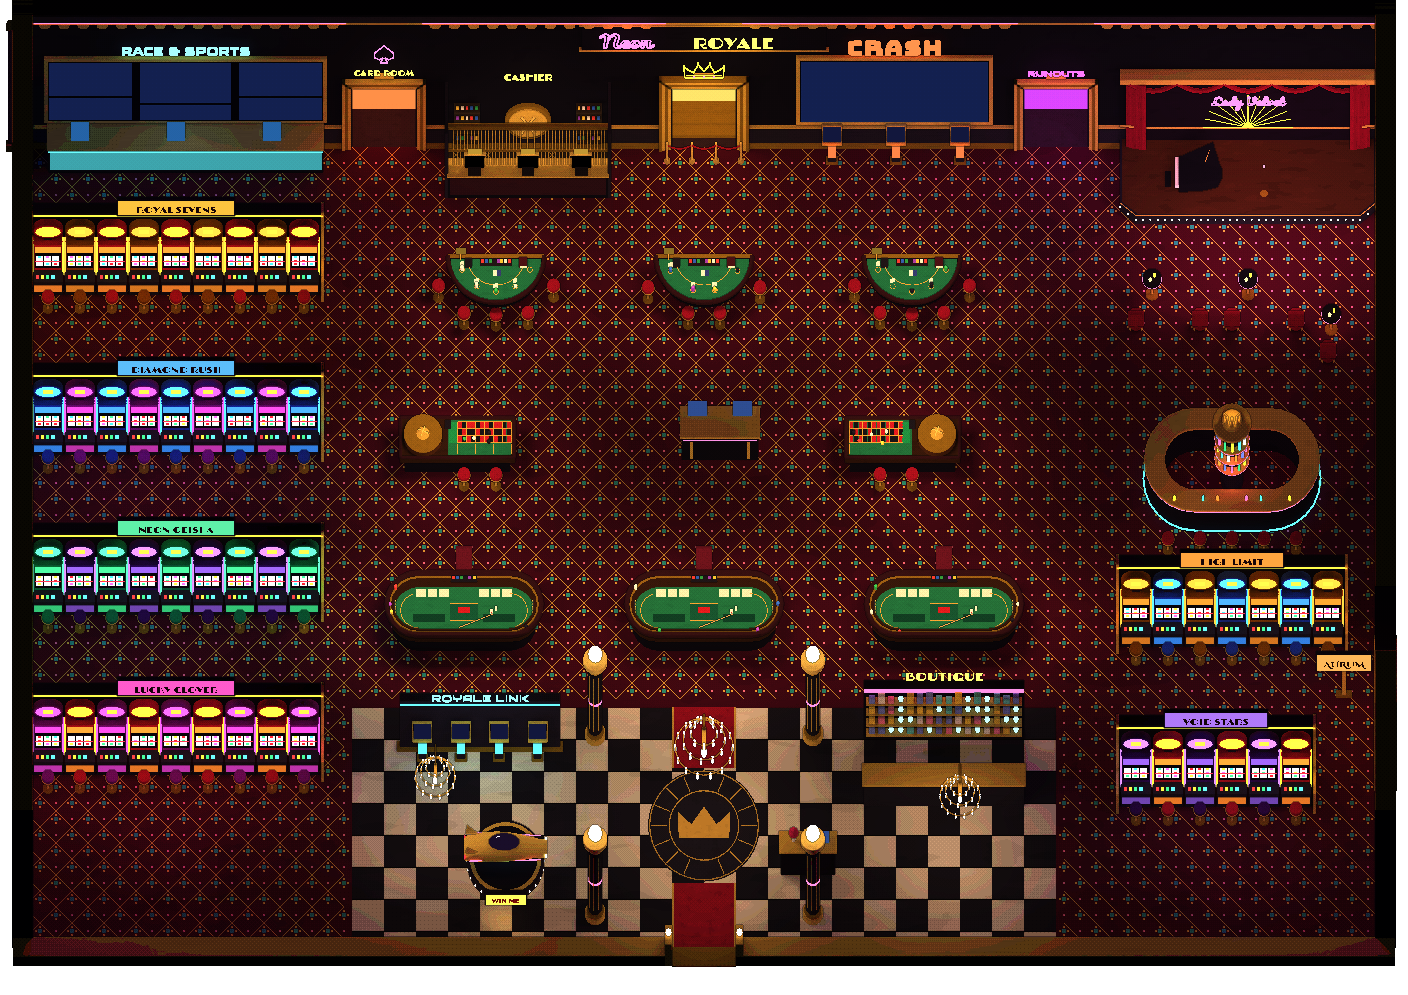
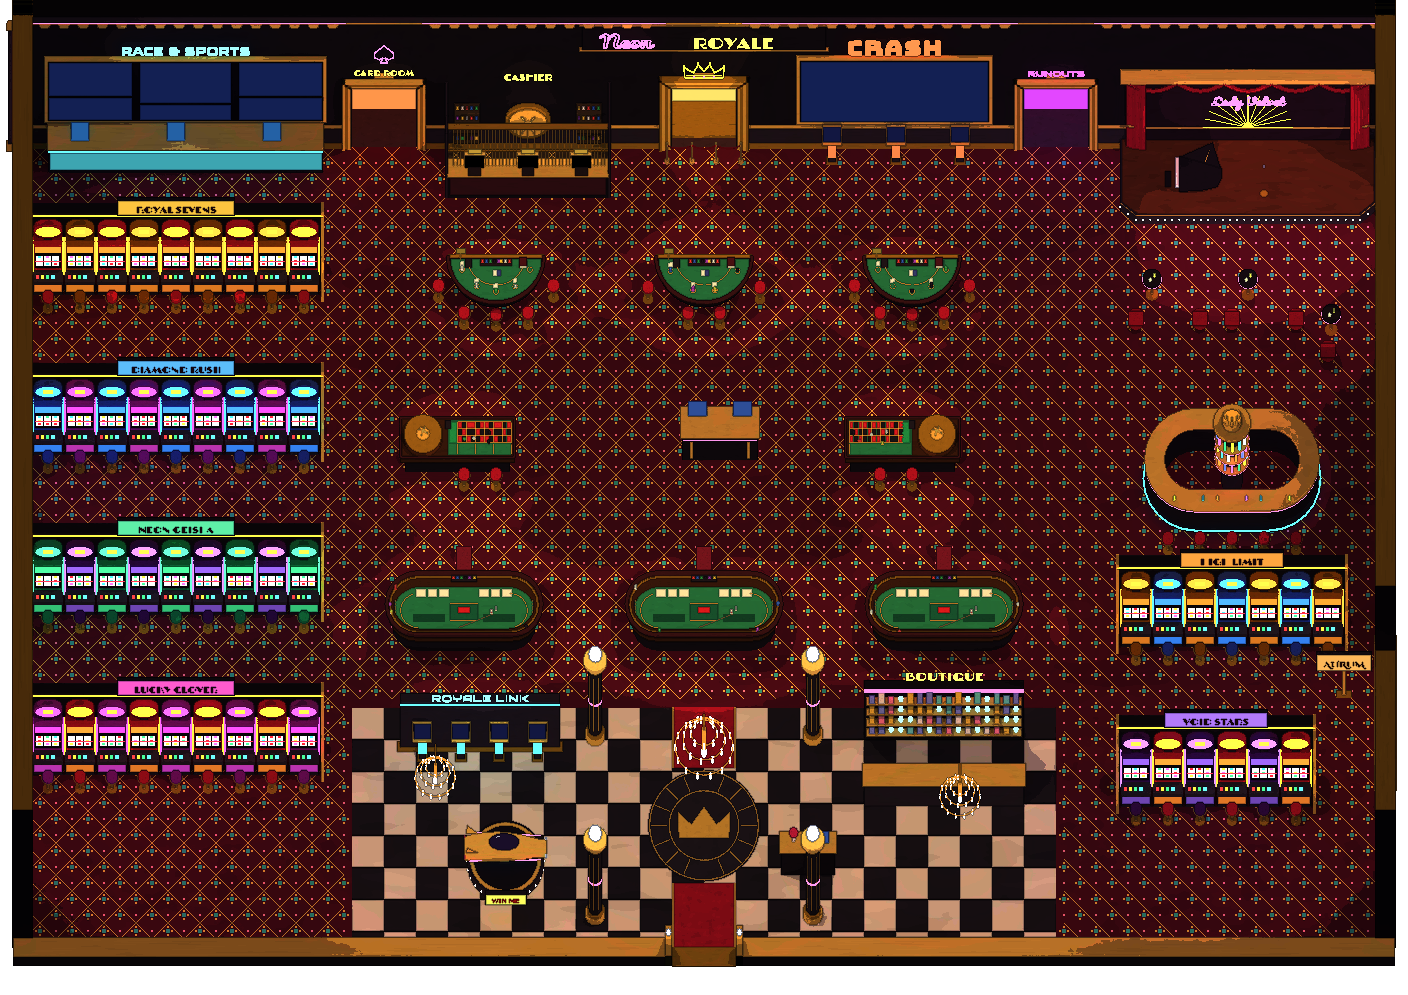
The casino floor re-rendered in the toy finish: its neon signs and slot banks stay lit, and the carpet lies in one warm band with soft pools at the tables (every lamp a little lower, the room's ambient lifted) instead of breaking into dark shapes
Claude-Session: https://claude.ai/code/session_018nrKRED6mogiaY9BWcycmi

diff --git a/tools/bridge-art/scenes/arcadia_casino.py b/tools/bridge-art/scenes/arcadia_casino.py
@@ -58,7 +58,7 @@ C.front_wall(k, 0.4, 43.6, 28.0, (21.0, 23.0))
 C.video_wall(k, live, 1.5, 10.1, RB, 1.32, 3.9, [(0.0, 0.42, 0.31, 1.0, 'sports'), (0.33, 0.3, 0.67, 1.0, 'race'),
                                                 (0.69, 0.42, 1.0, 1.0, 'sports'), (0.0, 0.0, 0.31, 0.4, 'odds'),
                                                 (0.33, 0.0, 0.67, 0.28, 'odds'), (0.69, 0.0, 1.0, 0.4, 'odds')])
-S.letters(k, 'RACE & SPORTS', 'RussoOne', 5.8, RB + 0.1, 4.25, size=0.6, col=Y.CYAN_L, energy=12)
+S.letters(k, 'RACE & SPORTS', 'RussoOne', 5.8, RB + 0.1, 4.25, size=0.6, col=Y.CYAN_L, energy=12, part='letters_lustre')
 C.betting_counter(k, 1.5, 10.1, RB, RB + 0.8)
 for x in (2.5, 5.5, 8.5):
     k.poly([(x - 0.28, RB + 0.2, 1.38), (x + 0.28, RB + 0.2, 1.38), (x + 0.28, RB + 0.55, 1.07), (x - 0.28, RB + 0.55, 1.07)],
@@ -66,36 +66,36 @@ for x in (2.5, 5.5, 8.5):
     live.screens.append([round(x - 0.24, 3), round(RB + 0.2 - 1.38 * C.C45, 3), round(x + 0.24, 3), round(RB + 0.55 - 1.07 * C.C45, 3), 'odds'])
 k.solid(1.5, RB, 10.1, RB + 0.8)
 # the Card Room's arch: gold letters and a neon spade
-S.letters(k, 'CARD ROOM', 'Limelight', ARCHES['cards'], RB + 0.1, 3.35, size=0.36, col=C.GOLD_L, energy=8)
+S.letters(k, 'CARD ROOM', 'Limelight', ARCHES['cards'], RB + 0.1, 3.35, size=0.36, col=C.GOLD_L, energy=8, part='letters_lustre')
 spade = [(-0.0, 0.32), (0.2, 0.1), (0.22, -0.05), (0.1, -0.12), (0.02, -0.06), (0.08, -0.22), (-0.08, -0.22), (-0.02, -0.06),
          (-0.1, -0.12), (-0.22, -0.05), (-0.2, 0.1)]
-Y.neon_shape(k, [(ARCHES['cards'] + x * 1.4, 4.2 + z * 1.4) for (x, z) in spade], RB + 0.12, C.PINK)
+Y.neon_shape(k, [(ARCHES['cards'] + x * 1.4, 4.2 + z * 1.4) for (x, z) in spade], RB + 0.12, C.PINK, part='neon_lustre')
 # the cashier's cage
 CAGE = C.cage(k, live, 14.0, 19.0, RB, depth=1.6, windows=3)
-S.letters(k, 'CASHIER', 'Limelight', 16.5, RB + 0.1, 3.15, size=0.42, col=C.GOLD_L, energy=8)
+S.letters(k, 'CASHIER', 'Limelight', 16.5, RB + 0.1, 3.15, size=0.42, col=C.GOLD_L, energy=8, part='letters_lustre')
 # the Crown Room: the big sign over its arch, a velvet rope across, steps up into the light
 C.neon_crown(k, ARCHES['crown'], RB + 0.1, 3.3, s=0.6, col=C.YEL, gem=C.PINK, energy=20)
 # the frieze along the top of the wall: THE NEON ROYALE in gold, Neon in pink script over it
 k.box(18.2, RB, 4.42, 25.8, RB + 0.1, 5.5, (C.LACQUER, 0.05), 'frieze')
 k.box(18.1, RB, 4.38, 25.9, RB + 0.12, 4.44, (C.GOLD, 0.05), 'frieze_trim')
 k.box(18.1, RB, 5.48, 25.9, RB + 0.12, 5.54, (C.GOLD, 0.05), 'frieze_trim')
-S.letters(k, 'ROYALE', 'Limelight', ARCHES['crown'] + 0.9, RB + 0.1, 4.55, size=0.78, col=C.GOLD_L, energy=18)
-S.neon(k, 'Neon', 'Pacifico', ARCHES['crown'] - 2.45, RB + 0.12, 4.62, size=1.4, col=C.PINK, tube=0.03, energy=16)
+S.letters(k, 'ROYALE', 'Limelight', ARCHES['crown'] + 0.9, RB + 0.1, 4.55, size=0.78, col=C.GOLD_L, energy=18, part='letters_lustre')
+S.neon(k, 'Neon', 'Pacifico', ARCHES['crown'] - 2.45, RB + 0.12, 4.62, size=1.4, col=C.PINK, tube=0.03, energy=16, part='neon_lustre')
 for i in range(3):
     k.box(ARCHES['crown'] - 1.0, RB - 1.2 + i * 0.3, 0.0, ARCHES['crown'] + 1.0, RB - 0.9 + i * 0.3, 0.12 * (3 - i), (C.GOLD_D, 0.05), 'step')
 D.velvet_rope(k, ARCHES['crown'] - 1.15, ARCHES['crown'] + 1.15, RB + 0.45)
 k.solid(ARCHES['crown'] - 1.0, RB, ARCHES['crown'] + 1.0, RB + 0.9)              # the rope: you ask at it
 # crash: the big screen, the rail of terminals
 C.video_wall(k, live, 25.0, 30.9, RB, 1.25, 3.95, [(0.0, 0.0, 1.0, 1.0, 'crash')])
-S.letters(k, 'CRASH', 'Bungee', 27.95, RB + 0.1, 4.25, size=2.2, col='#ff7040', energy=14)      # Bungee sets small: 2.2 is ~3 tiles across
+S.letters(k, 'CRASH', 'Bungee', 27.95, RB + 0.1, 4.25, size=2.2, col='#ff7040', energy=14, part='letters_lustre')      # Bungee sets small: 2.2 is ~3 tiles across
 CRASH = [26.0, 28.0, 30.0]
 for x in CRASH:
     C.bet_terminal(k, live, x, RB + 0.45, 'crashbet', col='#ff7040', w=0.62)
 # Runouts' arch
-S.neon(k, 'RUNOUTS', 'Audiowide', ARCHES['runouts'], RB + 0.1, 3.35, size=0.4, col='#ff60d0', tube=0.018, energy=10)
+S.neon(k, 'RUNOUTS', 'Audiowide', ARCHES['runouts'], RB + 0.1, 3.35, size=0.4, col='#ff60d0', tube=0.018, energy=10, part='neon_lustre')
 # the stage: Lady Velvet at the microphone, the pianist at the grand
 SH = C.stage(k, live, 35.0, 43.0, RB, depth=2.4, h=0.4, crown=False)
-S.neon(k, 'Lady Velvet', 'Pacifico', 39.0, RB + 0.08, SH + 1.62, size=0.85, col=C.PINK, tube=0.026, energy=12)   # her name in lights over the starburst
+S.neon(k, 'Lady Velvet', 'Pacifico', 39.0, RB + 0.08, SH + 1.62, size=0.85, col=C.PINK, tube=0.026, energy=12, part='neon_lustre')   # her name in lights over the starburst
 C.grand_piano(k, 37.35, RB + 1.3, facing='right')
 C.mic_stand(k, 39.5, RB + 1.75, SH)
 for x in (36.0, 39.6, 42.0):                              # spotlights on the stage
@@ -133,7 +133,7 @@ for (x0, side) in ROU:
 # the pit boss's podium between the wheels: a lacquered desk, screens, a lamp
 k.box(21.3, 11.9, 0.0, 23.7, 12.8, 1.05, (C.LACQUER, 0.05), 'podium', bevel=0.03)
 k.box(21.25, 11.85, 1.05, 23.75, 12.85, 1.1, (C.GOLD, 0.05), 'podium_top')
-k.box(21.35, 12.79, 0.88, 23.65, 12.81, 0.94, shade(C.PINK, 0.45), 'podium_neon', emit=(C.PINK, 0.85))
+k.box(21.35, 12.79, 0.88, 23.65, 12.81, 0.94, shade(C.PINK, 0.45), 'podium_neon_lustre', emit=(C.PINK, 0.85))
 for x in (21.6, 23.4):
     k.box(x - 0.05, 12.79, 0.1, x + 0.05, 12.82, 0.85, (C.GOLD, 0.05), 'podium_trim')
 for (x, kind) in ((21.8, 'odds'), (23.2, 'odds')):
@@ -164,7 +164,7 @@ k.point_light(42.6, 22.0, 2.0, '#ffb060', 18, radius=0.4)
 
 # ---- the foyer: Royale Link, the prize car, the boutique, the host, columns, chandeliers ----------------------------------------
 LINK = C.link_kiosk(k, live, 12.6, 17.4, 21.8, n=4)
-S.letters(k, 'ROYALE LINK', 'Audiowide', 15.0, 21.8, 2.12, size=0.5, col=Y.CYAN_L, energy=6)
+S.letters(k, 'ROYALE LINK', 'Audiowide', 15.0, 21.8, 2.12, size=0.5, col=Y.CYAN_L, energy=6, part='letters_lustre')
 # the prize: a gold hover-coupe turning on a bulb-ringed plinth
 k.cyl(15.8, 25.4, 0.0, 0.22, 1.2, (C.LACQUER_L, 0.05), 'plinth', verts=32)
 k.cyl(15.8, 25.4, 0.22, 0.26, 1.15, (C.LACQUER_L, 0.04), 'plinth_top', verts=32)
@@ -172,7 +172,7 @@ k.cyl(15.8, 25.4, 0.26, 0.27, 1.12, (C.GOLD, 0.05), 'plinth_rim', verts=32)
 k.cyl(15.8, 25.4, 0.27, 0.28, 1.0, (C.LACQUER, 0.04), 'plinth_top', verts=32)
 for i in range(28):
     a = 2 * math.pi * i / 28
-    k.sphere(15.8 + math.cos(a) * 1.21, 25.4 + math.sin(a) * 1.21, 0.12, 0.035, 0.035, '#fff0c0', 'plinth_bulb', emit=('#ffe090', 1.0), segs=5)
+    k.sphere(15.8 + math.cos(a) * 1.21, 25.4 + math.sin(a) * 1.21, 0.12, 0.035, 0.035, '#fff0c0', 'plinth_bulb_lustre', emit=('#ffe090', 1.0), segs=5)
     live.bulbs.append(live.at(15.8 + math.cos(a) * 1.21, 25.4 + math.sin(a) * 1.21, 0.12))
 C.prize_coupe(k, 15.8, 25.4, z=0.62)
 k.solid(14.6, 24.2, 17.0, 26.6)
@@ -188,8 +188,8 @@ for zz in (0.5, 0.95, 1.4, 1.85):
             k.sphere(x + 0.1, 21.62, zz + 0.1, 0.09, 0.09, '#c8e8ff', 'snow_globe', emit=('#a0d0ff', 0.3), segs=8)
         else:
             k.box(x, 21.55, zz, x + 0.2, 21.7, zz + rng.uniform(0.12, 0.3), (col, 0.1), 'gift_box')
-k.box(27.0, 21.45, 2.1, 32.0, 21.55, 2.16, shade(C.PINK, 0.45), 'boutique_neon', emit=(C.PINK, 0.85))
-S.letters(k, 'BOUTIQUE', 'Limelight', 29.5, 21.2, 2.22, size=0.55, col=C.GOLD_L, energy=5)
+k.box(27.0, 21.45, 2.1, 32.0, 21.55, 2.16, shade(C.PINK, 0.45), 'boutique_neon_lustre', emit=(C.PINK, 0.85))
+S.letters(k, 'BOUTIQUE', 'Limelight', 29.5, 21.2, 2.22, size=0.55, col=C.GOLD_L, energy=5, part='letters_lustre')
 k.solid(27.0, 21.15, 32.0, 21.8)
 k.box(27.0, 23.0, 0.0, 32.0, 23.6, 0.95, ('#1a1620', 0.05), 'case_base')
 k.box(27.05, 23.05, 0.2, 31.95, 23.55, 0.9, '#2a3040', 'case_glass', emit=('#4a5a7a', 0.35))
@@ -220,8 +220,10 @@ for (x, r) in ((22.0, 10.0), (15.0, 15.0), (29.0, 15.0), (22.0, 20.0), (38.5, 9.
     k.point_light(x, r, 3.0, '#ffd0a0', 26, radius=0.8)
 for (x, r, c) in ((11.5, 6.0, C.PINK), (33.0, 6.0, C.PURP), (22.0, 5.0, C.YEL), (11.5, 18.0, C.CYAN), (33.5, 18.0, C.PINK)):
     k.point_light(x, r, 2.4, c, 18, radius=0.6, group='flicker')
-k.render(OUT, light_states={'full': {'flicker': 1.0, 'pulse': 1.0}, 'dim': {'flicker': 0.86, 'pulse': 0.45}},
-         light_samples=96, world_light=('#2a1830', 0.45))
+k.render(OUT, light_states={'full': {'flicker': 1.0, 'pulse': 1.0, '_art': 0.6}, 'dim': {'flicker': 0.86, 'pulse': 0.45, '_art': 0.6}},
+         light_samples=96, world_light=('#584436', 1.75))
+# (every lamp at 0.6 and the room's ambient lifted to a warm rose, so the carpet lies in one band of the toy finish, the
+# tables in soft pools a band up, instead of breaking into dark shapes where the bands' edges fell across open floor)
 
 # ---- the world ---------------------------------------------------------------------------------------------------------
 P = 'PRESS E TO PLAY'
